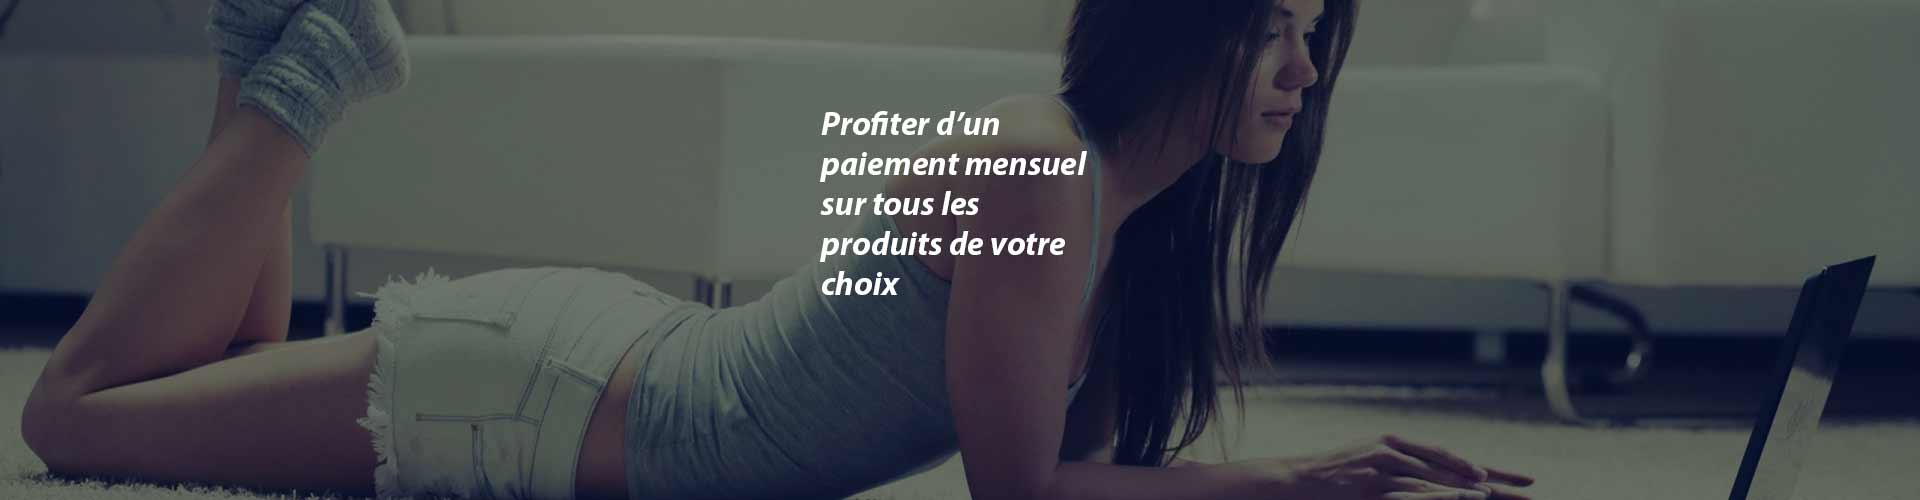
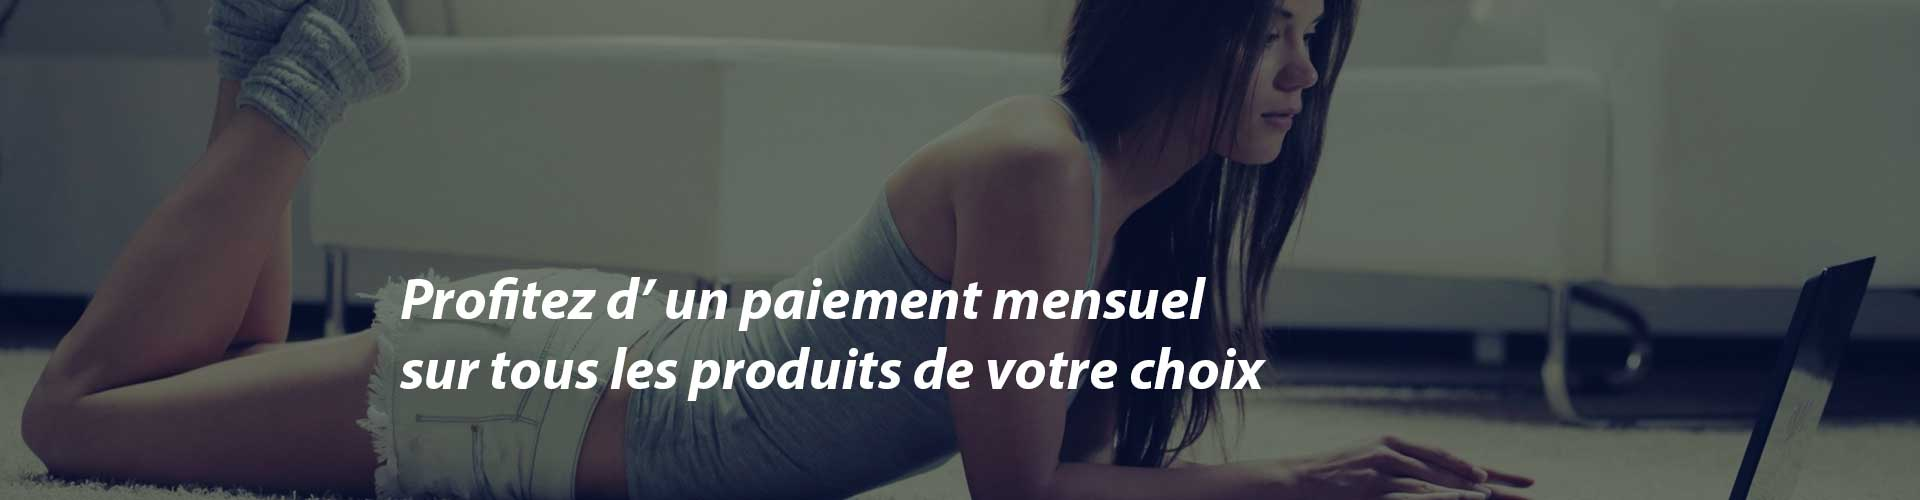
slider

diff --git a/primora-front/src/app/home-slider-mob/home-slider-mob.component.spec.ts b/primora-front/src/app/home-slider-mob/home-slider-mob.component.spec.ts
@@ -1,0 +1,25 @@
+import { async, ComponentFixture, TestBed } from '@angular/core/testing';
+
+import { HomeSliderMobComponent } from './home-slider-mob.component';
+
+describe('HomeSliderMobComponent', () => {
+  let component: HomeSliderMobComponent;
+  let fixture: ComponentFixture<HomeSliderMobComponent>;
+
+  beforeEach(async(() => {
+    TestBed.configureTestingModule({
+      declarations: [ HomeSliderMobComponent ]
+    })
+    .compileComponents();
+  }));
+
+  beforeEach(() => {
+    fixture = TestBed.createComponent(HomeSliderMobComponent);
+    component = fixture.componentInstance;
+    fixture.detectChanges();
+  });
+
+  it('should create', () => {
+    expect(component).toBeTruthy();
+  });
+});

diff --git a/primora-front/src/app/app.module.ts b/primora-front/src/app/app.module.ts
@@ -36,6 +36,7 @@ import { PageAddArticleComponent } from './page-add-article/page-add-article.com
 import { PageContactComponent } from './page-contact/page-contact.component';
 import { PageAddSuccessComponent } from './page-add-success/page-add-success.component';
 import { FooterComponent } from './footer/footer.component';
+import { HomeSliderMobComponent } from './home-slider-mob/home-slider-mob.component';
 
 @NgModule({
   declarations: [
@@ -62,7 +63,8 @@ import { FooterComponent } from './footer/footer.component';
     SimpleSearchComponent,
     HomeSliderComponent,
     FrenchDecimalPipe,
-    FooterComponent
+    FooterComponent,
+    HomeSliderMobComponent
   ],
   imports: [
     BrowserModule,

diff --git a/primora-front/src/app/home-slider-mob/home-slider-mob.component.ts b/primora-front/src/app/home-slider-mob/home-slider-mob.component.ts
@@ -1,0 +1,16 @@
+import { Component, OnInit } from '@angular/core';
+
+@Component({
+  selector: 'app-home-slider-mob',
+  templateUrl: './home-slider-mob.component.html',
+  styleUrls: ['./home-slider-mob.component.css']
+})
+export class HomeSliderMobComponent implements OnInit {
+  public images: Array<string> = ['assets/home-slide/4.jpg','assets/home-slide/5.jpg','assets/home-slide/6.jpg'];
+
+  constructor() { }
+
+  ngOnInit() {
+  }
+
+}

diff --git a/primora-front/src/app/app.component.html b/primora-front/src/app/app.component.html
@@ -3,6 +3,7 @@
     <app-header></app-header>
     <div class="margin"></div>
     <app-home-slider *ngIf="showHomeSlider"></app-home-slider>
+    <app-home-slider-mob *ngIf="showHomeSlider"></app-home-slider-mob>
     <app-filter></app-filter>
   </div>
   <div class="outlet-container">

diff --git a/primora-front/src/app/home-slider-mob/home-slider-mob.component.html b/primora-front/src/app/home-slider-mob/home-slider-mob.component.html
@@ -1,4 +1,4 @@
-<div class="big">
+<div class="small">
   <slideshow
     [minHeight]="'320px'"
     [height]="'100%'"

diff --git a/primora-front/src/app/home-slider-mob/home-slider-mob.component.css b/primora-front/src/app/home-slider-mob/home-slider-mob.component.css
@@ -1,0 +1,5 @@
+@media (max-width:480px)  {
+    .small {
+      visibility: hidden;
+    }
+}

diff --git a/primora-front/src/app/home-slider/home-slider.component.css b/primora-front/src/app/home-slider/home-slider.component.css
@@ -1,0 +1,5 @@
+@media (min-width:481px)  {
+    .big {
+      visibility: hidden;
+    }
+}
